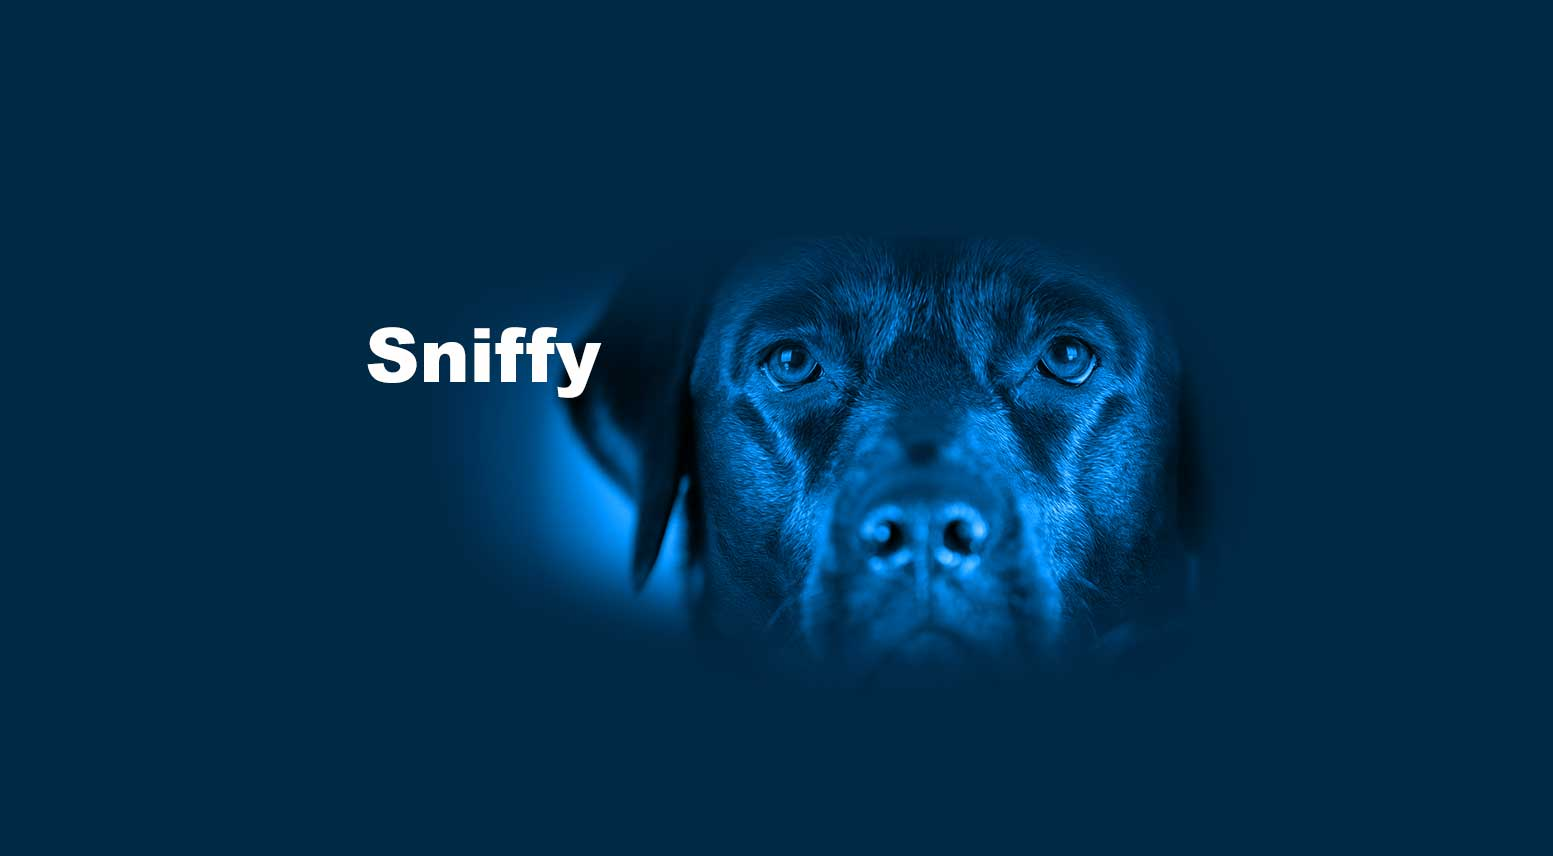
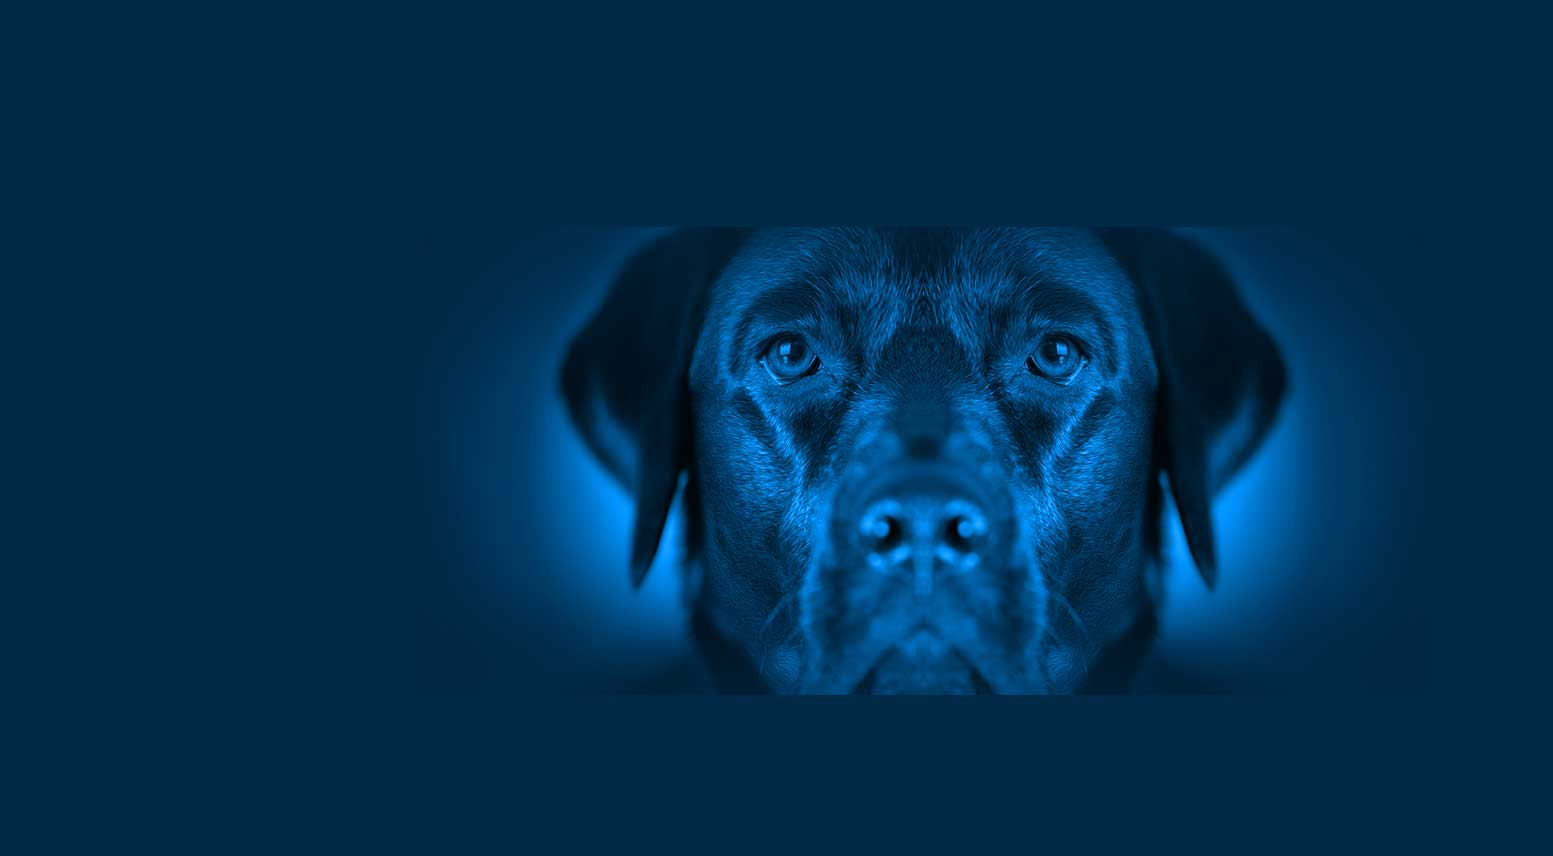
edit images

Changed region(s): [[0.2164, 0.243, 0.8963, 0.8201], [0.4018, 0.2734, 0.4327, 0.3037]]

diff --git a/src/App.js b/src/App.js
@@ -14,12 +14,14 @@ import Posts from './pages/Posts';  //include component file Posts.js
 import Login from './pages/Login';
 import Register from './pages/Register';
 import SinglePost from './pages/SinglePost';
+import sniffy from './img/sniffy.png';
 
 function App() {  //For Menu Item Layout see MenuBar.js
   return (
     <AuthProvider>
       <Router>
           <Container fluid>           {/* fluid extends page edge to edge */}
+          <div className="siteName"><img src={ sniffy } alt="I am a coder!" /></div>
            <MenuBar  />                                        {/* MenuBar Layout Position */}
             <Route exact path='/' component={Home} />
             <Route exact path='/posts' component={Posts} />   {/* specifies /posts route and component {Posts} js */}

diff --git a/src/components/MenuBar.js b/src/components/MenuBar.js
@@ -13,7 +13,6 @@ function MenuBar() {
 
   const handleItemClick = (e, { name }) => setActiveItem(name);
 
-  //const userr = { username } + 'logout';
   const menuBar = user ? (
         <Menu pointing secondary size="massive" color="teal" >
           <Menu.Item
@@ -40,7 +39,6 @@ function MenuBar() {
           </Menu.Menu>
         </Menu>
   ) : (
-
     <Menu pointing secondary size="massive" color="teal">
     <Menu.Item
       name='home'   //represents menu label "Home"

diff --git a/src/App.css b/src/App.css
@@ -3,6 +3,7 @@
     height: 200px;
     padding-left: 10%;
     padding-right: 10%; 
+    margin-top: 0;
 }
 
 a {
@@ -16,6 +17,15 @@ p {
 
 h1 {
     font-size: 3rem;
+}
+
+.siteName { width: 82%; 
+    display: block; 
+    margin: 0 auto; 
+    color: #002946; 
+    font-size: 72px; 
+    padding: 0; 
+    line-height: .75;  
 }
 
 .page-title {

diff --git a/src/ApolloProvider.js b/src/ApolloProvider.js
@@ -7,7 +7,7 @@ import { ApolloProvider } from '@apollo/react-hooks';
 import { setContext } from 'apollo-link-context';
 
 //uri: 'https://graphql-pokemon.now.sh/'
-// uri: 'http://localhost:5000'
+//uri: 'http://localhost:5000'
 const httpLink = createHttpLink({
   uri: 'https://secret-caverns-78901.herokuapp.com/'
 });
